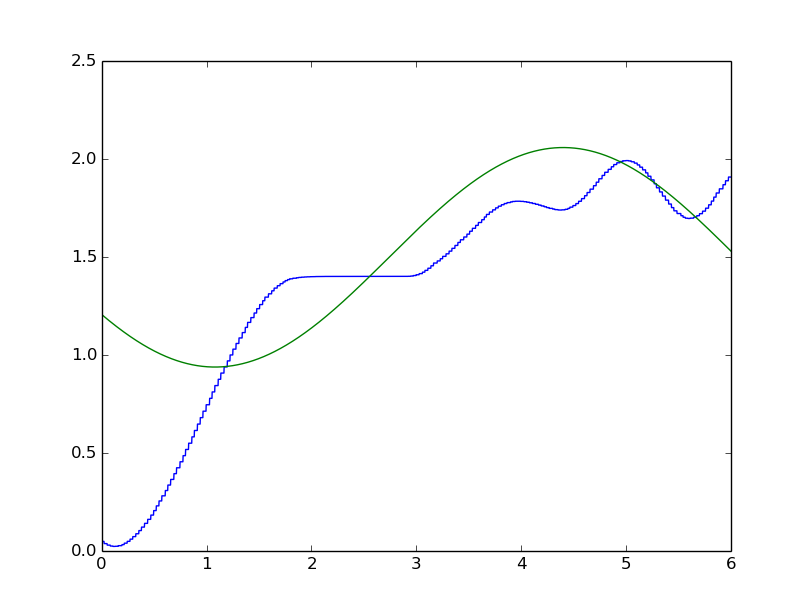
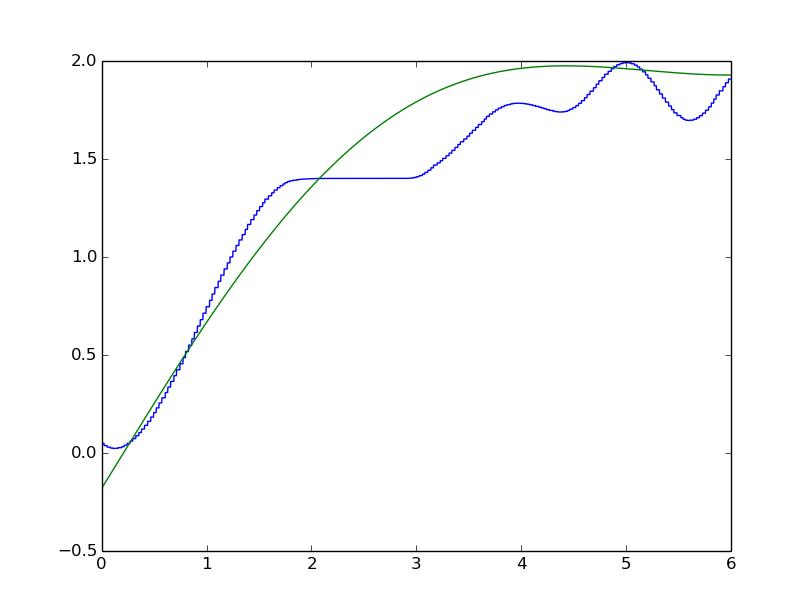
poly fit

diff --git a/Report/Relatorio.tex b/Report/Relatorio.tex
@@ -274,6 +274,29 @@ Como não obtivemos pleno sucesso com esta abordagem, e percebemos que, de certa
  \label{fig:ga_approximation_02}
 \end{figure}
 
+Por outro lado, utilizando método dos mínimos quadrados para aproximar a função de rotações com um polinômio de alto grau se bomostrou bem eficaz, conforme mostra as Figuras \ref{fig:poly_approximation_01} e \ref{fig:poly_approximation_02}, onde o erro é praticamente nulo. Então, testamos utilzar tais funções aproximadas para fazer o robo andar, e obtivemos bons resultados, ele finalmente andou, porém vagaromente (Figura \ref{fig:poly_walk}).
+
+\begin{figure}[H]
+ \centering
+ \includegraphics[scale=0.33]{figuras/{poly_approximation_01}.png}
+ \caption{Aproximação da mesma função por um polinômio de grau 150, com método dos mínimos quadrados. Em verde aproximação, em azul o esperado}
+ \label{fig:poly_approximation_01}
+\end{figure}
+
+\begin{figure}[H]
+ \centering
+ \includegraphics[scale=0.33]{figuras/{poly_approximation_02}.png}
+ \caption{Aproximação da mesma função por um polinômio de grau 150, com método dos mínimos quadrados. Em verde aproximação, em azul o esperado}
+ \label{fig:poly_approximation_02}
+\end{figure}
+
+\begin{figure}[H]
+ \centering
+ \includegraphics[scale=0.45]{figuras/{Galeria-150polynomialfit.mp4-1}.jpg}
+ \caption{Robô andando utilizando funções aproximadas por um polinomio de grau 150 com método dos mínimos quadrados.}
+ \label{fig:poly_walk}
+\end{figure}
+
 Trabalhos futuros utilizando AG devem fazer uso de métodos mais precisos do que os aqui presentes, ou tentar outras abordagens de algoritmos genéticos, como PSO (Particle Swarm Optimization) ou BRKGA (Biased random-key Genetic Algorithms), ou fazer uso de métodos analíticos juntos com AG, ou representando os indivíduos de forma diferente.
 
 \section{Conclusões} \label{conclusoes}

diff --git a/plot.py b/plot.py
@@ -134,17 +134,17 @@ for function in functions[2:]:
     plt.plot(x, function)
 
     print "Aproximation"
-    coeficients = aproximate(function)
-    print coeficients
-    aproximation = []
-    for t in xrange(len(function)):
-        aproximation += [truncated_Fourier(coeficients, t * INTERVAL)]
-
-    plt.plot(x, np.array(aproximation) / 4)
-    #p = np.poly1d(np.polyfit(x, function, 150))
+    #coeficients = aproximate(function)
+    #print coeficients
     #aproximation = []
     #for t in xrange(len(function)):
-    #    aproximation += [p(t * INTERVAL)]
-    #plt.plot(x, aproximation)
+    #    aproximation += [truncated_Fourier(coeficients, t * INTERVAL)]
+
+    #plt.plot(x, np.array(aproximation) / 4)
+    p = np.poly1d(np.polyfit(x, function, 150))
+    aproximation = []
+    for t in xrange(len(function)):
+        aproximation += [p(t * INTERVAL)]
+    plt.plot(x, aproximation)
 
     plt.show()
